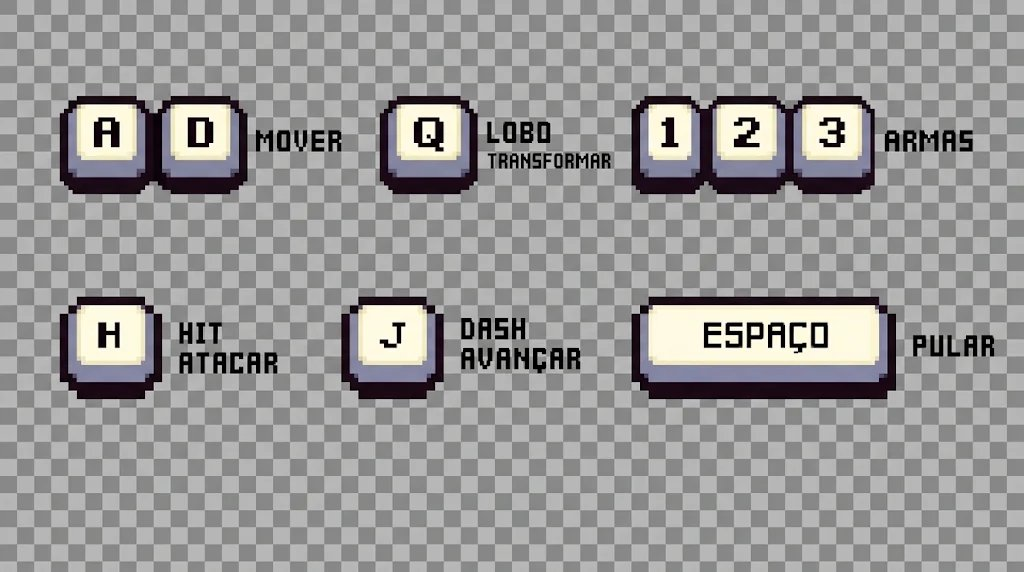
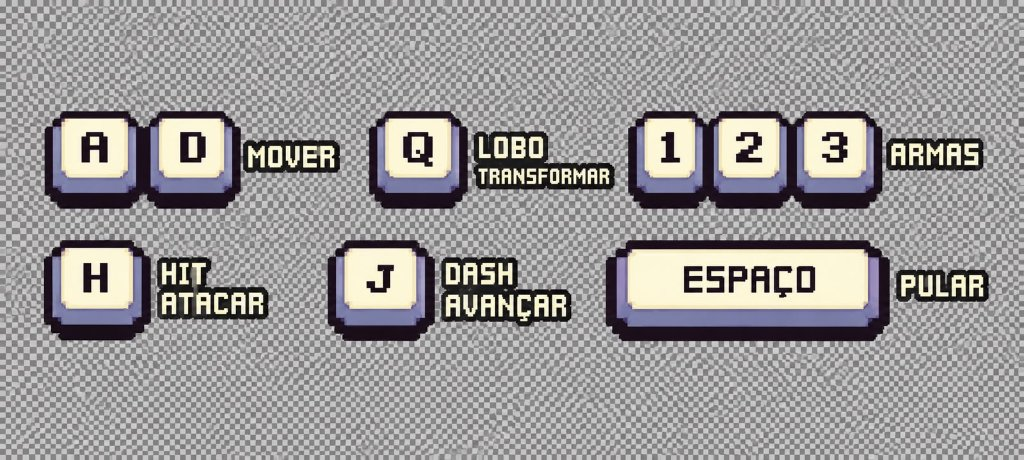
fix(ui): use updated controls image with clean outline and tight trim

diff --git a/src/ui/controlsHint.ts b/src/ui/controlsHint.ts
@@ -3,15 +3,15 @@ import { KEYS, SCREEN_WIDTH } from "../core/constants";
 import { k } from "../core/k";
 import { state } from "../core/state";
 
-/** Sprite is 468x152 (CONTROLS_DOWNSCALE = 2 in scripts/build-ui-assets.mjs); 1:1 scale sits cleanly in the upper-center (~49% screen width). */
+/** Sprite is 473x115 (CONTROLS_DOWNSCALE = 2 in scripts/build-ui-assets.mjs); 1:1 scale sits cleanly in the upper-center (~49% screen width). */
 const CONTROLS_SCALE = 1;
-const CONTROLS_WIDTH = 468;
-const CONTROLS_HEIGHT = 152;
+const CONTROLS_WIDTH = 473;
+const CONTROLS_HEIGHT = 115;
 const PANEL_PAD_X = 24;
 const PANEL_PAD_Y = 20;
 const PANEL_OPACITY = 0.84;
-/** Panel spans y = 109..281, clearing eraBanner (y <= 98) and staying above player / weapon HUD (y >= 429). */
-const HINT_CENTER_Y = 195;
+/** Panel spans y = 110..246, clearing eraBanner (y <= 98) and staying above player / weapon HUD (y >= 429). */
+const HINT_CENTER_Y = 178;
 const HINT_DURATION = 6;
 const FADE_DURATION = 0.5;
 
